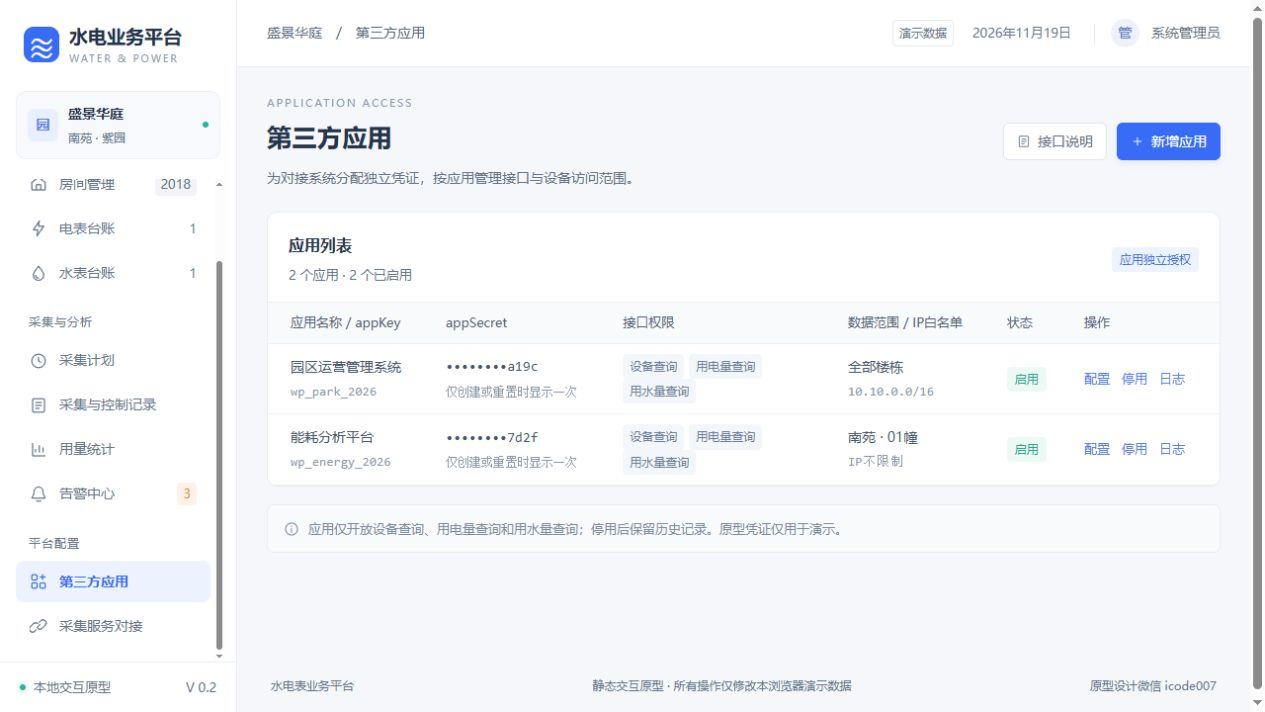
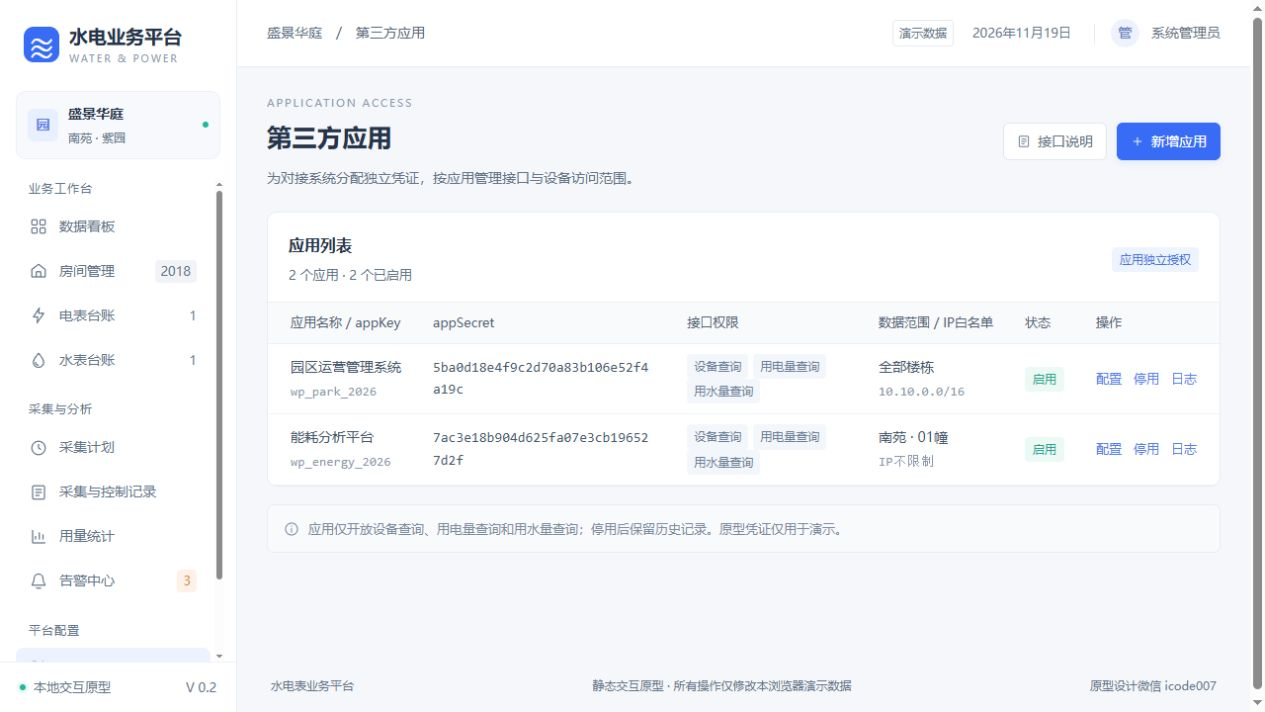
Keep demo application secrets visible after creation, reset and refresh

diff --git a/业务平台/原型/index.html b/业务平台/原型/index.html
@@ -5,9 +5,9 @@
   <meta name="viewport" content="width=device-width,initial-scale=1">
   <meta name="description" content="水电表业务平台本地交互原型">
   <title>水电表业务平台 · 交互原型</title>
-  <link rel="stylesheet" href="styles.css?v=20261120-two-devices">
-  <link rel="stylesheet" href="business.css?v=20261120-two-devices">
-  <link rel="stylesheet" href="task-records.css?v=20261120-two-devices">
+  <link rel="stylesheet" href="styles.css?v=20261120-visible-secret">
+  <link rel="stylesheet" href="business.css?v=20261120-visible-secret">
+  <link rel="stylesheet" href="task-records.css?v=20261120-visible-secret">
 </head>
 <body>
   <aside class="sidebar">
@@ -36,11 +36,11 @@
     <footer><span>水电表业务平台</span><span>静态交互原型 · 所有操作仅修改本浏览器演示数据</span><span>原型设计微信 icode007</span></footer>
   </div>
   <div id="modal-root"></div><div id="toast" role="status" aria-live="polite"></div>
-  <script src="room-template.js?v=20261120-two-devices"></script>
-  <script src="room-domain.js?v=20261120-two-devices"></script>
-  <script src="room-pages.js?v=20261120-two-devices"></script>
-  <script src="collection-plans.js?v=20261120-two-devices"></script>
-  <script src="task-records.js?v=20261120-two-devices"></script>
-  <script src="business.js?v=20261120-two-devices"></script>
+  <script src="room-template.js?v=20261120-visible-secret"></script>
+  <script src="room-domain.js?v=20261120-visible-secret"></script>
+  <script src="room-pages.js?v=20261120-visible-secret"></script>
+  <script src="collection-plans.js?v=20261120-visible-secret"></script>
+  <script src="task-records.js?v=20261120-visible-secret"></script>
+  <script src="business.js?v=20261120-visible-secret"></script>
 </body>
 </html>

diff --git a/业务平台/原型/business.css b/业务平台/原型/business.css
@@ -10,3 +10,5 @@ body{font-size:16px}.sidebar{padding:25px 16px 0}.brand{font-size:19px;letter-sp
 .summary-grid.water-summary{grid-template-columns:repeat(3,minmax(0,1fr))}
 @media(max-width:980px){.summary-grid.water-summary{grid-template-columns:repeat(2,minmax(0,1fr))}}
 @media(max-width:650px){.summary-grid.water-summary{grid-template-columns:1fr}}
+
+.app-secret-value{display:block;max-width:260px;white-space:normal;overflow-wrap:anywhere;line-height:1.6;user-select:all}

diff --git a/业务平台/原型/使用说明.md b/业务平台/原型/使用说明.md
@@ -20,7 +20,7 @@
 3. 采集计划中编辑重试间隔，再点击模拟执行。原型仅有2台设备，电表、水表各1台；每种计划采集对应的1台设备。历史记录包含重试成功和重试耗尽示例。
 4. 采集与控制记录按设备类型和操作类型筛选电表/水表抄表。详情逐次展示首次及重试的请求HEX、响应HEX、发送/响应/成功时间（毫秒）；失败不填成功时间，旧日志缺失明确标注。间隔按实际秒数等待；首次加3次重试最多4次尝试。
 5. 在用量统计中查看电表 `202607310749`：缺10:30边界点影响相邻两个区间，但日峰谷边界完整仍可统计。
-6. 新增第三方应用，确认只有三类查询权限；凭证只显示一次。查看接口说明，只有设备和用量查询。
+6. 新增第三方应用，确认只有三类查询权限；appSecret在列表和配置中持续完整显示，刷新后仍可查看。查看接口说明，只有设备和用量查询。
 7. 台账详情可演示后台手动抄表和电表通断电。通断电需要确认并核验，不自动重试，也不向第三方开放。
 
 ## 数据说明
@@ -32,7 +32,7 @@
 - 业务数据保存在 `meter-business-prototype-two-devices-v3`，房间保存在 `meter-business-prototype-rooms-two-devices-v3`。旧原型数据命名空间不修改、不直接混入新模板。
 - 更换浏览器或文件/HTTP地址可能使用不同存储；请固定同一入口。浏览器禁用存储或空间不足会提示保存失败。
 - 计划不后台自动调度。模拟任务在浏览器内推进；刷新后依已保存时间继续演示。
-- 不请求采集地址，不连接设备，不提供真实认证/开放接口。不要输入生产凭证，appSecret不保存明文。
+- 不请求采集地址，不连接设备，不提供真实认证/开放接口。不要输入生产凭证，原型只保存本地演示appSecret以持续显示，不要填写生产凭证。
 
 ## 可选HTTP预览
 
@@ -55,3 +55,5 @@ python -m http.server 18765 --bind 127.0.0.1
 如需重新从Excel只读生成房间模板：先安装openpyxl，再运行 `python tools/import-room-template.py "本地安装对照表.xlsx路径"`。原Excel不随原型或GitHub交付。
 
 两台设备演示使用独立本地存储键，避免旧版大量设备从浏览器缓存重新出现；旧版数据保留在旧键中。房间仍保留安装模板的2,018间，不自动绑定设备。
+
+旧版用户新增应用如仅保存了密钥末四位，原密钥无法恢复；在配置中重置一次即可保存并持续显示新演示密钥。

diff --git a/业务平台/原型修正及复查记录.md b/业务平台/原型修正及复查记录.md
@@ -1,5 +1,11 @@
 # 原型修正及复查记录
 
+## 2026-11-20应用密钥持续展示
+
+- appSecret在第三方应用列表和配置中持续明文可见，新增和重置后保存，刷新后仍可查看。
+- 原型保存本地演示密钥；正式方案改为服务端可解密密文保存，并由有权限的后台页面获取。日志及三类对外查询不返回应用密钥。
+
+
 ## 2026-11-20两台设备专项更新
 
 - 初始共2台：电表202607310749、水表23030016032620；两类台账各1条，第一列为设备编码，仅显示数字编码。

diff --git a/业务平台/原型/需求确认.md b/业务平台/原型/需求确认.md
@@ -35,6 +35,7 @@
 - 仅有设备查询、用电量查询、用水量查询三类功能。
 - 只查询平台已保存的数据，查询不触发抄表；不开放主动抄表、通断电、任务查询等其他功能。
 - 保留应用凭证、查询权限、数据范围、IP白名单、启停和调用日志。
+- appSecret在第三方应用列表及配置中持续完整可见，不脱敏、不限于首次显示。新增、重置后保存，关闭窗口和刷新后仍可查看。
 
 ## 告警
 
